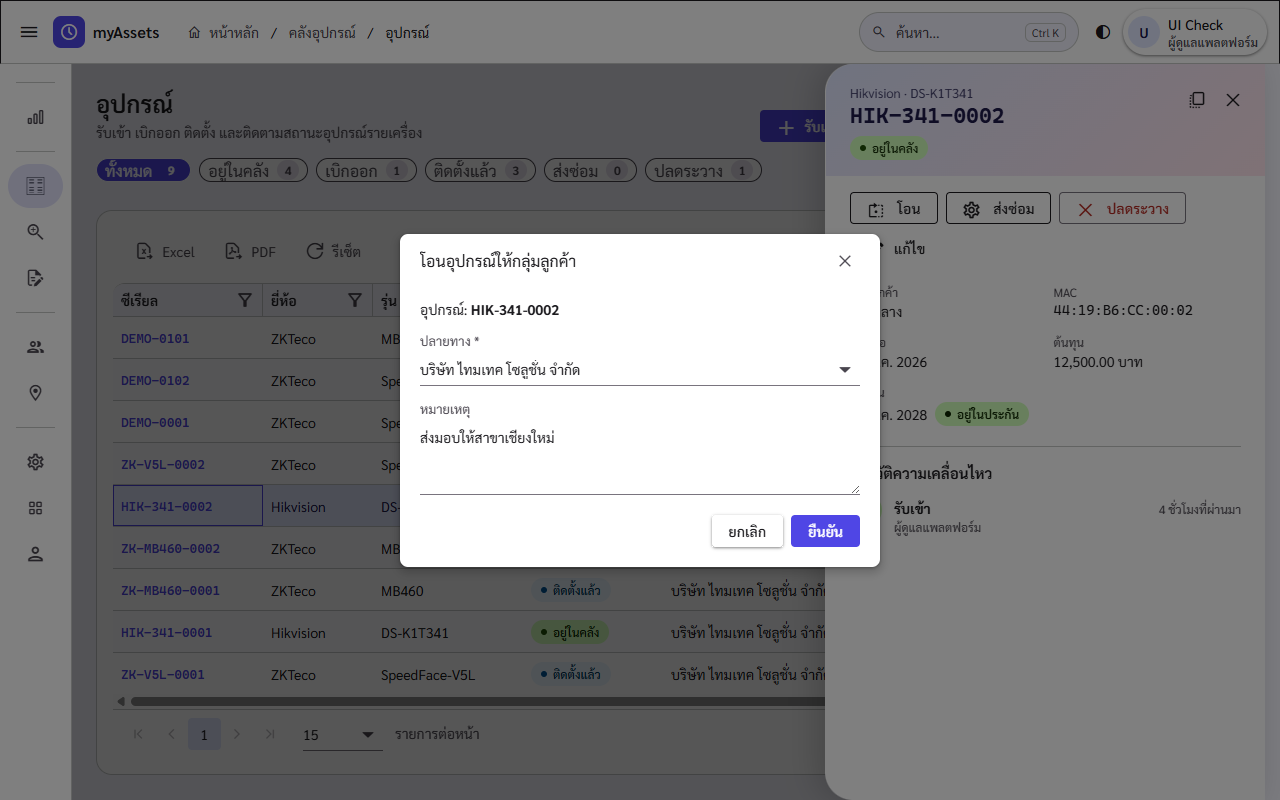
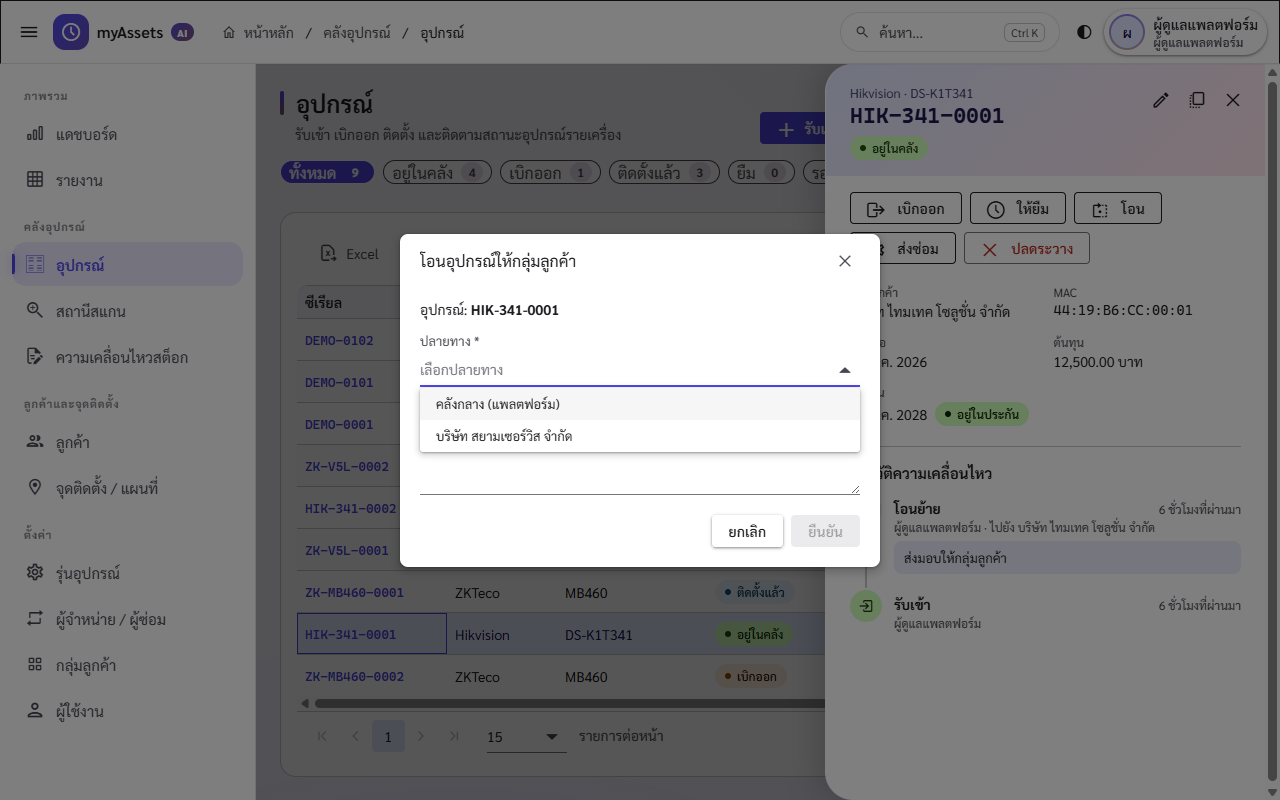
docs: update user guide for loan/QC, suppliers, reports, map picking and paging
Retake changed screenshots (incl. 14/15 repair-done), add loan, QC fail, suppliers and reports shots, and move resolved UX suggestions to the fixed table.

diff --git a/docs/user-guide/README.md b/docs/user-guide/README.md
@@ -9,16 +9,17 @@
 1. [บทบาทผู้ใช้และสถานะอุปกรณ์](#1-บทบาทผู้ใช้และสถานะอุปกรณ์)
 2. [เข้าสู่ระบบและหน้าจอหลัก](#2-เข้าสู่ระบบและหน้าจอหลัก)
 3. [รับอุปกรณ์เข้าคลัง](#3-รับอุปกรณ์เข้าคลัง)
-4. [วงจรชีวิตอุปกรณ์: โอน → เบิก → ติดตั้ง](#4-วงจรชีวิตอุปกรณ์-โอน--เบิก--ติดตั้ง)
+4. [วงจรชีวิตอุปกรณ์: โอน → เบิก → ติดตั้ง / ยืม](#4-วงจรชีวิตอุปกรณ์-โอน--เบิก--ติดตั้ง--ยืม)
 5. [ส่งซ่อมและบันทึกผล QC](#5-ส่งซ่อมและบันทึกผล-qc)
-6. [รับคืนและปลดระวาง](#6-รับคืนและปลดระวาง)
+6. [รับคืน ตรวจสอบ (QC) และปลดระวาง](#6-รับคืน-ตรวจสอบ-qc-และปลดระวาง)
 7. [นำเข้าอุปกรณ์จากไฟล์ Excel/CSV](#7-นำเข้าอุปกรณ์จากไฟล์-excelcsv)
 8. [สถานีสแกน](#8-สถานีสแกน)
 9. [ความเคลื่อนไหวสต็อก](#9-ความเคลื่อนไหวสต็อก)
 10. [ลูกค้าและจุดติดตั้ง/แผนที่](#10-ลูกค้าและจุดติดตั้งแผนที่)
-11. [ตั้งค่า: รุ่นอุปกรณ์ กลุ่มลูกค้า ผู้ใช้งาน](#11-ตั้งค่า-รุ่นอุปกรณ์-กลุ่มลูกค้า-ผู้ใช้งาน)
-12. [โปรไฟล์ ธีม และการใช้งานบนมือถือ](#12-โปรไฟล์-ธีม-และการใช้งานบนมือถือ)
-13. [ผลตรวจ UX/UI ระหว่างทำคู่มือ](#13-ผลตรวจ-uxui-ระหว่างทำคู่มือ)
+11. [ตั้งค่า: รุ่นอุปกรณ์ ผู้จำหน่าย/ผู้ซ่อม กลุ่มลูกค้า ผู้ใช้งาน](#11-ตั้งค่า-รุ่นอุปกรณ์-ผู้จำหน่ายผู้ซ่อม-กลุ่มลูกค้า-ผู้ใช้งาน)
+12. [รายงาน](#12-รายงาน)
+13. [โปรไฟล์ ธีม และการใช้งานบนมือถือ](#13-โปรไฟล์-ธีม-และการใช้งานบนมือถือ)
+14. [ผลตรวจ UX/UI ระหว่างทำคู่มือ](#14-ผลตรวจ-uxui-ระหว่างทำคู่มือ)
 
 ---
 
@@ -31,23 +32,30 @@
 | เจ้าหน้าที่ | ทำรายการกับอุปกรณ์ในกลุ่มของตน (เบิก ติดตั้ง ส่งซ่อม ฯลฯ) |
 | ผู้ดูข้อมูล | ดูข้อมูลได้อย่างเดียว |
 
-อุปกรณ์แต่ละเครื่องมี 5 สถานะ และระบบจะแสดงเฉพาะปุ่มที่ทำได้ในสถานะปัจจุบัน
+อุปกรณ์แต่ละเครื่องมี 7 สถานะ และระบบจะแสดงเฉพาะปุ่มที่ทำได้ในสถานะปัจจุบัน เครื่องที่รับคืนทุกกรณีจะเข้าคิว "รอตรวจสอบ (QC)" ก่อนกลับเข้าคลัง
 
 ```mermaid
 stateDiagram-v2
   [*] --> อยู่ในคลัง: รับเข้า / นำเข้า
   อยู่ในคลัง --> อยู่ในคลัง: โอน (เฉพาะผู้ดูแลแพลตฟอร์ม)
   อยู่ในคลัง --> เบิกออก: เบิกออก (ต้องอยู่ในกลุ่มลูกค้าแล้ว)
+  อยู่ในคลัง --> ยืม: ให้ยืม (ต้องอยู่ในกลุ่มลูกค้าแล้ว)
   เบิกออก --> ติดตั้งแล้ว: ติดตั้ง
-  เบิกออก --> อยู่ในคลัง: รับคืน
-  ติดตั้งแล้ว --> อยู่ในคลัง: รับคืน
+  เบิกออก --> รอตรวจสอบ: รับคืน
+  ติดตั้งแล้ว --> รอตรวจสอบ: รับคืน
+  ยืม --> รอตรวจสอบ: รับคืน
+  รอตรวจสอบ --> อยู่ในคลัง: QC ผ่าน
+  รอตรวจสอบ --> ส่งซ่อม: QC ไม่ผ่าน
   อยู่ในคลัง --> ส่งซ่อม
   เบิกออก --> ส่งซ่อม
   ติดตั้งแล้ว --> ส่งซ่อม
   ส่งซ่อม --> อยู่ในคลัง: ซ่อมเสร็จ / QC
   อยู่ในคลัง --> ปลดระวาง
+  รอตรวจสอบ --> ปลดระวาง
   ส่งซ่อม --> ปลดระวาง
 ```
+
+การแก้ไขข้อมูลเครื่อง (เช่น MAC ต้นทุน วันหมดประกัน) จะถูกบันทึกในประวัติเป็นรายการ "แก้ไขข้อมูล" พร้อมฟิลด์ที่เปลี่ยน โดยสถานะไม่เปลี่ยน
 
 ## 2. เข้าสู่ระบบและหน้าจอหลัก
 
@@ -65,9 +73,10 @@ stateDiagram-v2
 
 หน้าแรกหลังเข้าสู่ระบบ แสดง
 
-- การ์ดจำนวนอุปกรณ์ตามสถานะ พร้อมตัวเลขเปลี่ยนแปลงใน 7 วัน
+- การ์ดจำนวนอุปกรณ์ทั้งหมดและตามสถานะ พร้อมตัวเลขเปลี่ยนแปลงใน 7 วัน คลิกการ์ดเพื่อไปหน้าอุปกรณ์ที่กรองสถานะนั้นไว้แล้ว
+- แผง **งานค้าง**: จำนวนเครื่องที่รอตรวจสอบ (QC), ยืมเกินกำหนดคืน และส่งซ่อมเกิน 14 วัน คลิกแต่ละรายการเพื่อดูเครื่องที่เกี่ยวข้อง (ถ้าไม่มีงานค้างจะขึ้น "ไม่มีงานค้าง")
 - กราฟความเคลื่อนไหว 30 วัน สัดส่วนตามสถานะ และจำนวนตามรุ่น
-- กิจกรรมล่าสุด (กด **ดูทั้งหมด** เพื่อไปหน้าความเคลื่อนไหวสต็อก)
+- กิจกรรมล่าสุด คลิกซีเรียลเพื่อเปิดรายละเอียดเครื่อง (กด **ดูทั้งหมด** เพื่อไปหน้าความเคลื่อนไหวสต็อก)
 - ปุ่มลัด **รับเข้า**, **นำเข้า**, **สแกน** และปุ่มรีเฟรช
 
 ![แดชบอร์ด](images/02-dashboard.png)
@@ -84,7 +93,9 @@ stateDiagram-v2
 
 ## 3. รับอุปกรณ์เข้าคลัง
 
-เมนู **คลังอุปกรณ์ → อุปกรณ์** แสดงรายการทุกเครื่อง ใช้ชิปด้านบน (ทั้งหมด / อยู่ในคลัง / เบิกออก / …) กรองตามสถานะ และใช้แถบเครื่องมือของตารางเพื่อส่งออก Excel/PDF เลือกคอลัมน์ หรือค้นหา
+เมนู **คลังอุปกรณ์ → อุปกรณ์** แสดงรายการทุกเครื่อง ใช้ชิปด้านบน (ทั้งหมด / อยู่ในคลัง / เบิกออก / …) ซึ่งบอกจำนวนเครื่องในแต่ละสถานะ เพื่อกรอง และใช้แถบเครื่องมือของตารางเพื่อส่งออก Excel/PDF เลือกคอลัมน์ หรือค้นหา (ค้นจากซีเรียล ยี่ห้อ รุ่น หรือ MAC)
+
+ตารางโหลดข้อมูลทีละหน้าจากเซิร์ฟเวอร์ จึงเปิดได้เร็วแม้มีอุปกรณ์หลายหมื่นเครื่อง คลิกหัวคอลัมน์เพื่อเรียงลำดับ และเลือกจำนวนรายการต่อหน้าได้ที่มุมล่างซ้าย ส่วนปุ่ม Excel/PDF จะส่งออกทุกเครื่องตามตัวกรองปัจจุบัน ไม่ใช่เฉพาะหน้าที่เห็น
 
 ![รายการอุปกรณ์](images/05-devices-list.png)
 
@@ -98,9 +109,9 @@ stateDiagram-v2
 
 กด **บันทึก** เครื่องจะอยู่ในสถานะ "อยู่ในคลัง" และมีประวัติ "รับเข้า"
 
-## 4. วงจรชีวิตอุปกรณ์: โอน → เบิก → ติดตั้ง
+## 4. วงจรชีวิตอุปกรณ์: โอน → เบิก → ติดตั้ง / ยืม
 
-คลิกซีเรียลในตารางเพื่อเปิดแผงรายละเอียดด้านขวา แผงนี้แสดงข้อมูลเครื่อง สถานะประกัน ปุ่มทำรายการตามสถานะ และประวัติความเคลื่อนไหว (ปุ่ม ⧉ มุมขวาบนเปิดเป็นหน้าเต็ม)
+คลิกซีเรียลในตารางเพื่อเปิดแผงรายละเอียดด้านขวา แผงนี้แสดงข้อมูลเครื่อง สถานะประกัน ปุ่มทำรายการตามสถานะ และประวัติความเคลื่อนไหว ปุ่มที่หัวแผงคือ ✎ แก้ไขข้อมูล, ⧉ คัดลอกลิงก์ของเครื่อง และ ✕ ปิด
 
 ![รายละเอียดอุปกรณ์](images/07-device-detail.png)
 
@@ -110,7 +121,7 @@ stateDiagram-v2
 
 ### 4.1 โอนให้กลุ่มลูกค้า (ผู้ดูแลแพลตฟอร์ม)
 
-กด **โอน** เลือก **ปลายทาง** และใส่หมายเหตุ แล้วกด **ยืนยัน**
+กด **โอน** เลือก **ปลายทาง** (รายการจะไม่แสดงตำแหน่งที่เครื่องอยู่ตอนนี้) และใส่หมายเหตุ แล้วกด **ยืนยัน**
 
 ![โอนอุปกรณ์](images/08-transfer.png)
 
@@ -122,7 +133,7 @@ stateDiagram-v2
 
 ### 4.3 บันทึกการติดตั้ง
 
-กด **ติดตั้ง** แล้วเลือก **ลูกค้า** วันที่ติดตั้ง และพิกัด (กด **ใช้ตำแหน่งปัจจุบัน** เมื่ออยู่หน้างานเพื่อดึงพิกัดจาก GPS) พร้อมรายละเอียดจุดติดตั้ง
+กด **ติดตั้ง** แล้วเลือก **ลูกค้า** วันที่ติดตั้ง และตำแหน่ง โดยคลิกบนแผนที่เพื่อปักหมุด (ซูมและลากแผนที่ได้ก่อนคลิก) ระบบจะกรอกละติจูด/ลองจิจูดให้ หรือกด **ใช้ตำแหน่งปัจจุบัน** เมื่ออยู่หน้างานเพื่อดึงพิกัดจาก GPS แล้วใส่ที่อยู่จุดติดตั้ง
 
 ![บันทึกการติดตั้ง](images/10-install.png)
 
@@ -134,11 +145,19 @@ stateDiagram-v2
 
 ![ประวัติความเคลื่อนไหว](images/12-timeline.png)
 
+### 4.4 ให้ยืม
+
+ใช้กับเครื่องที่อยู่ในคลังของกลุ่มลูกค้า เช่น ให้ลูกค้าทดลองใช้ กด **ให้ยืม** เลือก **วันครบกำหนดคืน** (จำเป็น) และระบุผู้ยืมหรือวัตถุประสงค์ แล้วกด **ยืนยัน**
+
+![ให้ยืมอุปกรณ์](images/40-loan.png)
+
+แผงรายละเอียดจะแสดงวันครบกำหนดคืนพร้อมจำนวนวันที่เหลือ (ชิปเปลี่ยนเป็นสีเหลืองเมื่อเหลือไม่เกิน 3 วัน และขึ้น "เกินกำหนด N วัน" เมื่อเลยกำหนด) และเครื่องที่ยืมเกินกำหนดจะขึ้นในแผงงานค้างบนแดชบอร์ด เมื่อได้เครื่องคืนให้กด **รับคืน** (ดูหัวข้อ 6)
+
 ## 5. ส่งซ่อมและบันทึกผล QC
 
 ### 5.1 ส่งซ่อม
 
-กด **ส่งซ่อม** แล้วระบุอาการหรือสาเหตุ
+กด **ส่งซ่อม** เลือก **ผู้ซ่อม / ผู้จำหน่าย** (เว้นว่างถ้าซ่อมเอง รายชื่อจัดการได้ที่หัวข้อ 11.2) แล้วระบุอาการหรือสาเหตุ
 
 ![ส่งอุปกรณ์ซ่อม](images/13-send-repair.png)
 
@@ -150,15 +169,28 @@ stateDiagram-v2
 
 ![บันทึกผลซ่อมและ QC](images/15-repair-done.png)
 
-เครื่องจะกลับเป็น "อยู่ในคลัง" พร้อมเบิกใช้ใหม่
+เครื่องจะกลับเป็น "อยู่ในคลัง" พร้อมเบิกใช้ใหม่ ถ้าส่งซ่อมนานเกิน 14 วันโดยยังไม่บันทึกผล เครื่องจะขึ้นในแผงงานค้างบนแดชบอร์ด
 
-## 6. รับคืนและปลดระวาง
+## 6. รับคืน ตรวจสอบ (QC) และปลดระวาง
 
-- **รับคืน** — ใช้กับเครื่องที่เบิกออกหรือติดตั้งแล้ว เพื่อนำกลับเข้าคลัง
+### 6.1 รับคืน
 
-![รับคืนเข้าคลัง](images/16-return.png)
+ใช้กับเครื่องที่เบิกออก ติดตั้งแล้ว หรือให้ยืม กด **รับคืน** ใส่หมายเหตุแล้วกด **ยืนยัน** เครื่องจะเข้าสถานะ "รอตรวจสอบ (QC)" ยังไม่นับเป็นสต็อกพร้อมใช้จนกว่าจะบันทึกผล QC
 
-- **ปลดระวาง** — ใช้กับเครื่องที่อยู่ในคลังหรือส่งซ่อม เมื่อเลิกใช้งานถาวร ใส่เหตุผลแล้วกดปุ่มสีแดง **ยืนยัน** เครื่องจะไม่นับรวมในสต็อก แต่ประวัติยังอยู่
+![รับคืนเพื่อตรวจสอบ](images/16-return.png)
+
+### 6.2 บันทึกผล QC
+
+เครื่องที่รอตรวจสอบจะมีปุ่ม **QC ผ่าน** และ **QC ไม่ผ่าน** (ดูรายการที่รอได้จากชิป "รอตรวจสอบ (QC)" ในหน้าอุปกรณ์ หรือแผงงานค้างบนแดชบอร์ด และทำรายการจากสถานีสแกนได้เช่นกัน)
+
+- **QC ผ่าน** — เครื่องกลับเป็น "อยู่ในคลัง" ใส่หมายเหตุได้ถ้าต้องการ
+- **QC ไม่ผ่าน** — ต้องระบุอาการหรือสาเหตุ เครื่องจะเปลี่ยนเป็น "ส่งซ่อม" ทันที แล้วบันทึกผลซ่อมตามหัวข้อ 5.2
+
+![ไม่ผ่านการตรวจสอบ ส่งซ่อม](images/41-qc-fail.png)
+
+### 6.3 ปลดระวาง
+
+ใช้กับเครื่องที่อยู่ในคลัง รอตรวจสอบ หรือส่งซ่อม เมื่อเลิกใช้งานถาวร ใส่เหตุผลแล้วกดปุ่มสีแดง **ยืนยัน** เครื่องจะไม่นับรวมในสต็อก แต่ประวัติยังอยู่
 
 ![ปลดระวางอุปกรณ์](images/17-retire.png)
 
@@ -170,7 +202,7 @@ stateDiagram-v2
 
 ![นำเข้า ขั้นเลือกไฟล์](images/19-import-step1.png)
 
-**ขั้นที่ 2 — ตรวจสอบ:** ระบบตรวจทุกแถวก่อนบันทึก แถวที่ผิดจะแสดงเหตุผล เช่น ซีเรียลซ้ำ ไม่พบรุ่น MAC ผิดรูปแบบ ติ๊ก **แสดงเฉพาะแถวที่ผิด** เพื่อดูเฉพาะแถวที่ต้องแก้ ระบบจะนำเข้าเมื่อทุกแถวถูกต้องเท่านั้น ให้แก้ไฟล์แล้วกด **เลือกไฟล์ใหม่**
+**ขั้นที่ 2 — ตรวจสอบ:** ระบบตรวจทุกแถวก่อนบันทึก แถวที่ผิดจะแสดงเหตุผล เช่น ซีเรียลซ้ำ ไม่พบรุ่น MAC ผิดรูปแบบ ติ๊ก **แสดงเฉพาะแถวที่ผิด** เพื่อดูเฉพาะแถวที่ต้องแก้ ระบบจะนำเข้าเมื่อทุกแถวถูกต้องเท่านั้น (ระหว่างนั้นปุ่มจะขึ้นว่า **แก้ไขแถวที่ผิดก่อน** และกดไม่ได้) ให้แก้ไฟล์แล้วกด **เลือกไฟล์ใหม่**
 
 ![นำเข้า พบแถวที่ผิด](images/20-import-errors.png)
 
@@ -186,7 +218,7 @@ stateDiagram-v2
 
 เมนู **คลังอุปกรณ์ → สถานีสแกน** ออกแบบสำหรับเครื่องยิงบาร์โค้ด (ทำงานแบบคีย์บอร์ด ยิงแล้วกด Enter ให้อัตโนมัติ) หรือพิมพ์ซีเรียลเอง
 
-- พบเครื่อง: แสดงสถานะ ตำแหน่ง และปุ่มทำรายการได้ทันที กด **รายละเอียด** เพื่อเปิดหน้าเครื่อง
+- พบเครื่อง: แสดงสถานะ ตำแหน่ง และปุ่มทำรายการได้ทันที (รวมถึง **รับคืน**, **QC ผ่าน** / **QC ไม่ผ่าน** จึงใช้ตรวจรับเครื่องคืนทีละหลายเครื่องได้เร็ว) กด **รายละเอียด** เพื่อเปิดหน้าเครื่อง
 - ด้านขวาเก็บประวัติการสแกนของรอบนี้ (กด **ล้าง** เพื่อเริ่มใหม่)
 
 ![สแกนพบอุปกรณ์](images/23-scan-found.png)
@@ -197,7 +229,12 @@ stateDiagram-v2
 
 ## 9. ความเคลื่อนไหวสต็อก
 
-เมนู **คลังอุปกรณ์ → ความเคลื่อนไหวสต็อก** รวมทุกรายการที่เปลี่ยนสถานะหรือย้ายอุปกรณ์ พร้อมสถานะก่อนและหลัง กลุ่มลูกค้า และลูกค้า กรอง ค้นหา และส่งออก Excel/PDF ได้
+เมนู **คลังอุปกรณ์ → ความเคลื่อนไหวสต็อก** รวมทุกรายการที่เปลี่ยนสถานะ ย้าย หรือแก้ไขข้อมูลอุปกรณ์ พร้อมสถานะก่อนและหลัง กลุ่มลูกค้า ลูกค้า ผู้ซ่อม ผู้ทำรายการ และหมายเหตุ
+
+- **ช่วงวันที่:** เลือกจากปฏิทินหรือทางลัด วันนี้ / 7 วันล่าสุด / 30 วันล่าสุด / เดือนนี้
+- **ประเภทรายการ:** ใช้ชิป (รับเข้า โอนย้าย เบิกออก … แก้ไขข้อมูล) กรองเฉพาะประเภทที่ต้องการ
+- กด **ล้างตัวกรอง** เพื่อกลับไปดูทั้งหมด ตัวกรองจะอยู่ในลิงก์ของหน้า จึงคัดลอก URL ส่งให้ผู้อื่นเปิดดูผลเดียวกันได้
+- ค้นหาและส่งออก Excel/PDF ได้จากแถบเครื่องมือของตาราง
 
 ![ความเคลื่อนไหวสต็อก](images/25-transactions.png)
 
@@ -205,7 +242,9 @@ stateDiagram-v2
 
 ### 10.1 ลูกค้า
 
-เมนู **ลูกค้าและจุดติดตั้ง → ลูกค้า** จัดการบริษัทลูกค้าของแต่ละกลุ่ม พร้อมผู้ติดต่อและระดับบริการ
+เมนู **ลูกค้าและจุดติดตั้ง → ลูกค้า** จัดการบริษัทลูกค้าของแต่ละกลุ่ม พร้อมผู้ติดต่อและระดับบริการ ชิปด้านบนสลับดูลูกค้าที่ใช้งาน / ระงับ / ทั้งหมด
+
+ลูกค้าจะไม่ถูกลบออกจากระบบเพื่อให้ประวัติการติดตั้งยังอ้างอิงได้ ให้เลือกแถวแล้วกด **ระงับ** แทน (ระงับไม่ได้ถ้ายังมีอุปกรณ์ติดตั้งอยู่ที่ลูกค้ารายนั้น) ลูกค้าที่ถูกระงับจะไม่แสดงในรายการตอนบันทึกการติดตั้ง และกด **เปิดใช้** เพื่อกลับมาใช้งานได้
 
 ![รายชื่อลูกค้า](images/26-customers.png)
 
@@ -219,11 +258,13 @@ stateDiagram-v2
 
 ![จุดติดตั้งบนแผนที่](images/28-installations.png)
 
-**ค้นหาอุปกรณ์ในรัศมี:** ใส่พิกัด (หรือใช้ตำแหน่งปัจจุบัน) และระยะเป็นกิโลเมตร ระบบจะแสดงเครื่องที่อยู่ในรัศมี พร้อมระยะทาง เหมาะสำหรับวางแผนงานช่างหน้างาน
+**ค้นหาอุปกรณ์ในรัศมี:** คลิกบนแผนที่เพื่อตั้งจุดกลาง (หรือพิมพ์ละติจูด/ลองจิจูด) เลื่อนแถบ **รัศมี** (1–100 กม.) แล้วกด **ค้นหา** แผนที่จะวาดวงกลมรัศมีและซูมให้พอดี ตารางด้านล่างแสดงเครื่องที่อยู่ในรัศมีพร้อมระยะทาง เมื่อค้นหาแล้ว การคลิกจุดใหม่หรือปรับรัศมีจะค้นหาใหม่ให้อัตโนมัติ กด **แสดงทั้งหมด** เพื่อกลับไปดูทุกจุด เหมาะสำหรับวางแผนงานช่างหน้างาน
 
 ![ค้นหาอุปกรณ์ในรัศมี](images/29-installations-nearby.png)
 
-## 11. ตั้งค่า: รุ่นอุปกรณ์ กลุ่มลูกค้า ผู้ใช้งาน
+เลือกแถวแล้วกด **แก้ไขพิกัด** เพื่อย้ายหมุดของจุดติดตั้งด้วยการคลิกบนแผนที่ในไดอะล็อกได้เช่นกัน
+
+## 11. ตั้งค่า: รุ่นอุปกรณ์ ผู้จำหน่าย/ผู้ซ่อม กลุ่มลูกค้า ผู้ใช้งาน
 
 ### 11.1 รุ่นอุปกรณ์
 
@@ -231,13 +272,19 @@ stateDiagram-v2
 
 ![รุ่นอุปกรณ์](images/30-device-models.png)
 
-### 11.2 กลุ่มลูกค้า (เฉพาะผู้ดูแลแพลตฟอร์ม)
+### 11.2 ผู้จำหน่าย / ผู้ซ่อม
+
+รายชื่อร้านซ่อมและผู้จำหน่ายที่ใช้ร่วมกันทุกกลุ่มลูกค้า ใช้เลือกตอนส่งซ่อม และแสดงในคอลัมน์ "ผู้ซ่อม" ของความเคลื่อนไหวสต็อก กด **เพิ่มผู้จำหน่าย** แล้วกรอกชื่อ (จำเป็น) ผู้ติดต่อ โทรศัพท์ อีเมล และหมายเหตุ ผู้ดูแลแพลตฟอร์มเท่านั้นที่เพิ่ม แก้ไข หรือลบได้ (ลบไม่ได้ถ้าเคยถูกใช้ในรายการส่งซ่อมแล้ว)
+
+![ผู้จำหน่ายและผู้ซ่อม](images/42-suppliers.png)
+
+### 11.3 กลุ่มลูกค้า (เฉพาะผู้ดูแลแพลตฟอร์ม)
 
 องค์กรที่ใช้ระบบ แต่ละกลุ่มเห็นเฉพาะอุปกรณ์และข้อมูลของตนเอง
 
 ![กลุ่มลูกค้า](images/31-tenants.png)
 
-### 11.3 ผู้ใช้งาน
+### 11.4 ผู้ใช้งาน
 
 จัดการบัญชี บทบาท และการระงับใช้งาน
 
@@ -247,7 +294,19 @@ stateDiagram-v2
 
 ![เพิ่มผู้ใช้](images/33-user-new.png)
 
-## 12. โปรไฟล์ ธีม และการใช้งานบนมือถือ
+## 12. รายงาน
+
+เมนู **ภาพรวม → รายงาน** มี 2 แท็บ ทุกตารางส่งออก Excel/PDF ได้จากแถบเครื่องมือ
+
+**ยอดคงเหลือ** — จำนวนเครื่องและต้นทุนรวม แยกตามรุ่น × กลุ่มลูกค้า × สถานะ จัดกลุ่มตามรุ่นพร้อมยอดรวมท้ายกลุ่มและท้ายตาราง ลากหัวคอลัมน์ไปวางที่แถบจัดกลุ่มเพื่อเปลี่ยนการจัดกลุ่ม (เช่น ตามกลุ่มลูกค้า) หรือกด ✕ ที่ชิปเพื่อยกเลิก ติ๊ก **รวมอุปกรณ์ที่ปลดระวาง** ถ้าต้องการนับเครื่องที่เลิกใช้แล้วด้วย
+
+![รายงานยอดคงเหลือ](images/43-reports-balance.png)
+
+**อายุในสถานะ** — แต่ละเครื่องอยู่ในสถานะปัจจุบันมาตั้งแต่เมื่อไรและกี่วัน จัดกลุ่มตามสถานะ พร้อมจำนวนเครื่องและค่าสูงสุดของแต่ละกลุ่ม ใช้ชิปด้านบนกรองเฉพาะสถานะ เช่น ดูเครื่องที่ส่งซ่อมนานที่สุด หรือเครื่องที่ค้างอยู่ในคลังนานเกินไป
+
+![รายงานอายุในสถานะ](images/44-reports-aging.png)
+
+## 13. โปรไฟล์ ธีม และการใช้งานบนมือถือ
 
 คลิกชื่อผู้ใช้มุมขวาบนเพื่อเปิดเมนู: โปรไฟล์และรหัสผ่าน, เลือกธีม (สว่าง / มืด / ตามระบบ) และออกจากระบบ ปุ่ม ◐ ข้างช่องค้นหาสลับธีมได้เร็ว
 
@@ -261,7 +320,7 @@ stateDiagram-v2
 
 ![แดชบอร์ดธีมมืด](images/36-dashboard-dark.png)
 
-บนมือถือ การ์ดจะเรียงเป็นคอลัมน์ เมนูเปิดจาก ☰ แบบลิ้นชักและปิดเองเมื่อเลือกหน้า ตารางเลื่อนซ้าย-ขวาได้
+บนมือถือ การ์ดจะเรียงเป็น 2 คอลัมน์ เมนูเปิดจาก ☰ แบบลิ้นชักและปิดเองเมื่อเลือกหน้า ตารางซ่อนคอลัมน์รอง (เช่น ยี่ห้อ MAC วันที่) บนจอแคบเพื่อให้เห็นซีเรียลและสถานะ และเลื่อนซ้าย-ขวาได้
 
 | แดชบอร์ด | เมนู | รายการอุปกรณ์ |
 | --- | --- | --- |
@@ -269,7 +328,7 @@ stateDiagram-v2
 
 ---
 
-## 13. ผลตรวจ UX/UI ระหว่างทำคู่มือ
+## 14. ผลตรวจ UX/UI ระหว่างทำคู่มือ
 
 ### แก้ไขแล้ว
 
@@ -281,15 +340,16 @@ stateDiagram-v2
 | ข้อความอังกฤษหลงเหลือ "Columns", "(1 item)" | เพิ่มคำแปลใน `locale.ts` |
 | หัวข้อเชิงเทคนิค "(PostGIS ST_DWithin)" ในหน้าจุดติดตั้ง | เปลี่ยนเป็น "ค้นหาอุปกรณ์ในรัศมี" |
 | คำอธิบายหน้ากลุ่มลูกค้าไม่ชัด | เขียนใหม่ให้บอกว่าแต่ละกลุ่มเห็นเฉพาะข้อมูลของตน |
+| โอนอุปกรณ์: รายการปลายทางมี "คลังกลาง" แม้เครื่องอยู่คลังกลางอยู่แล้ว | ไม่แสดงตำแหน่งปัจจุบันของเครื่องในรายการปลายทาง |
+| นำเข้า: checkbox "แสดงเฉพาะแถวที่ผิด" เป็นสีม่วงของ Syncfusion ไม่ตรงสีแบรนด์ | ใช้สี primary ของธีม (`accent-color`) |
+| นำเข้า: ปุ่มที่ถูกปิดยังเขียน "นำเข้า 2 เครื่อง" | เปลี่ยนเป็น "แก้ไขแถวที่ผิดก่อน" พร้อม tooltip บอกเหตุผล |
+| ความเคลื่อนไหวสต็อก: คอลัมน์ "รายการ" เป็นข้อความธรรมดาและถูกตัดคำ | แสดงเป็นชิปสีพร้อมไอคอนแบบเดียวกับไทม์ไลน์ และขยายความกว้างคอลัมน์ |
+| แดชบอร์ดเมื่อกางเมนูเต็ม: การ์ด "อุปกรณ์ทั้งหมด" ถูกตัดคำ และ legend กราฟโดนัทแบ่งหน้า | จำนวนคอลัมน์ของการ์ดปรับตามพื้นที่เนื้อหาจริง (container query) และย้าย legend ไปด้านล่างโดยไม่แบ่งหน้า |
+| แผงรายละเอียดอุปกรณ์: ปุ่ม "แก้ไข" ตกไปบรรทัดใหม่เมื่อมีหลายปุ่ม | ย้ายเป็นปุ่มไอคอน ✎ ที่หัวแผง ข้างปุ่มคัดลอกลิงก์ |
+| มือถือ: ตารางอุปกรณ์เห็นแค่ ซีเรียล/ยี่ห้อ/รุ่น ต้องเลื่อนขวาเพื่อดูสถานะ | ซ่อนคอลัมน์รองบนจอแคบกว่า 768px (`hideAtMedia` ใน `app-data-grid`) |
+| แดชบอร์ด: การ์ดสถานะและกิจกรรมล่าสุดคลิกไม่ได้ | คลิกการ์ดไปหน้าอุปกรณ์ที่กรองสถานะนั้น และคลิกซีเรียลเปิดรายละเอียดเครื่อง |
+| ภาพ `14-repair-done-required` และ `15-repair-done` ถ่ายก่อนแก้ความกว้าง textarea | ถ่ายใหม่พร้อมภาพหน้าจออื่นที่เปลี่ยน |
 
 ### ข้อเสนอแนะ (ยังไม่แก้)
 
-1. **โอนอุปกรณ์:** รายการปลายทางยังมี "คลังกลาง" แม้เครื่องอยู่คลังกลางอยู่แล้ว ควรซ่อนตำแหน่งปัจจุบัน
-2. **นำเข้า:** checkbox "แสดงเฉพาะแถวที่ผิด" เป็นสีม่วงของ Syncfusion ไม่ตรงสี indigo ของแบรนด์
-3. **นำเข้า:** ปุ่มที่ถูกปิดยังเขียน "นำเข้า 2 เครื่อง" ควรเปลี่ยนข้อความเป็น "แก้ไขแถวที่ผิดก่อน" หรือแสดง tooltip บอกเหตุผล
-4. **ความเคลื่อนไหวสต็อก:** คอลัมน์ "รายการ" เป็นข้อความธรรมดาและตัดคำ "ซ่อมเสร็จ (QC …" ควรใช้ชิปพร้อมไอคอนแบบเดียวกับไทม์ไลน์
-5. **แดชบอร์ดเมื่อกางเมนูเต็ม:** การ์ด "อุปกรณ์ทั้งหมด" ถูกตัดเป็น "อุปกรณ์ทั้ง…" และ legend กราฟโดนัทขึ้นหน้า 1/2 ควรให้การ์ดขึ้นบรรทัดใหม่ได้ หรือลดจำนวนคอลัมน์ในจอขนาดกลาง
-6. **แผงรายละเอียดอุปกรณ์:** เมื่อมีปุ่ม 4 ปุ่ม ปุ่ม "แก้ไข" ตกไปบรรทัดใหม่ อาจย้าย "แก้ไข" ไปไว้ข้างปุ่ม ⧉ ที่หัวแผง
-7. **มือถือ:** ตารางอุปกรณ์เห็นแค่ ซีเรียล/ยี่ห้อ/รุ่น ส่วนสถานะต้องเลื่อนขวา ควรแสดงแบบการ์ด หรือซ่อนคอลัมน์รองบนจอแคบ
-8. **แดชบอร์ด:** การ์ดสถานะและรายการกิจกรรมล่าสุดยังคลิกไม่ได้ ผู้ใช้มักคาดหวังว่าคลิกการ์ดแล้วไปหน้าอุปกรณ์ที่กรองสถานะนั้น และคลิกซีเรียลแล้วเปิดรายละเอียดเครื่อง
-9. **ภาพประกอบ** `14-repair-done-required` และ `15-repair-done` ถ่ายก่อนแก้ความกว้าง textarea ช่องกรอกในภาพจึงยังแคบ (ในระบบจริงแก้แล้ว)
+ยังไม่มีรายการค้าง
